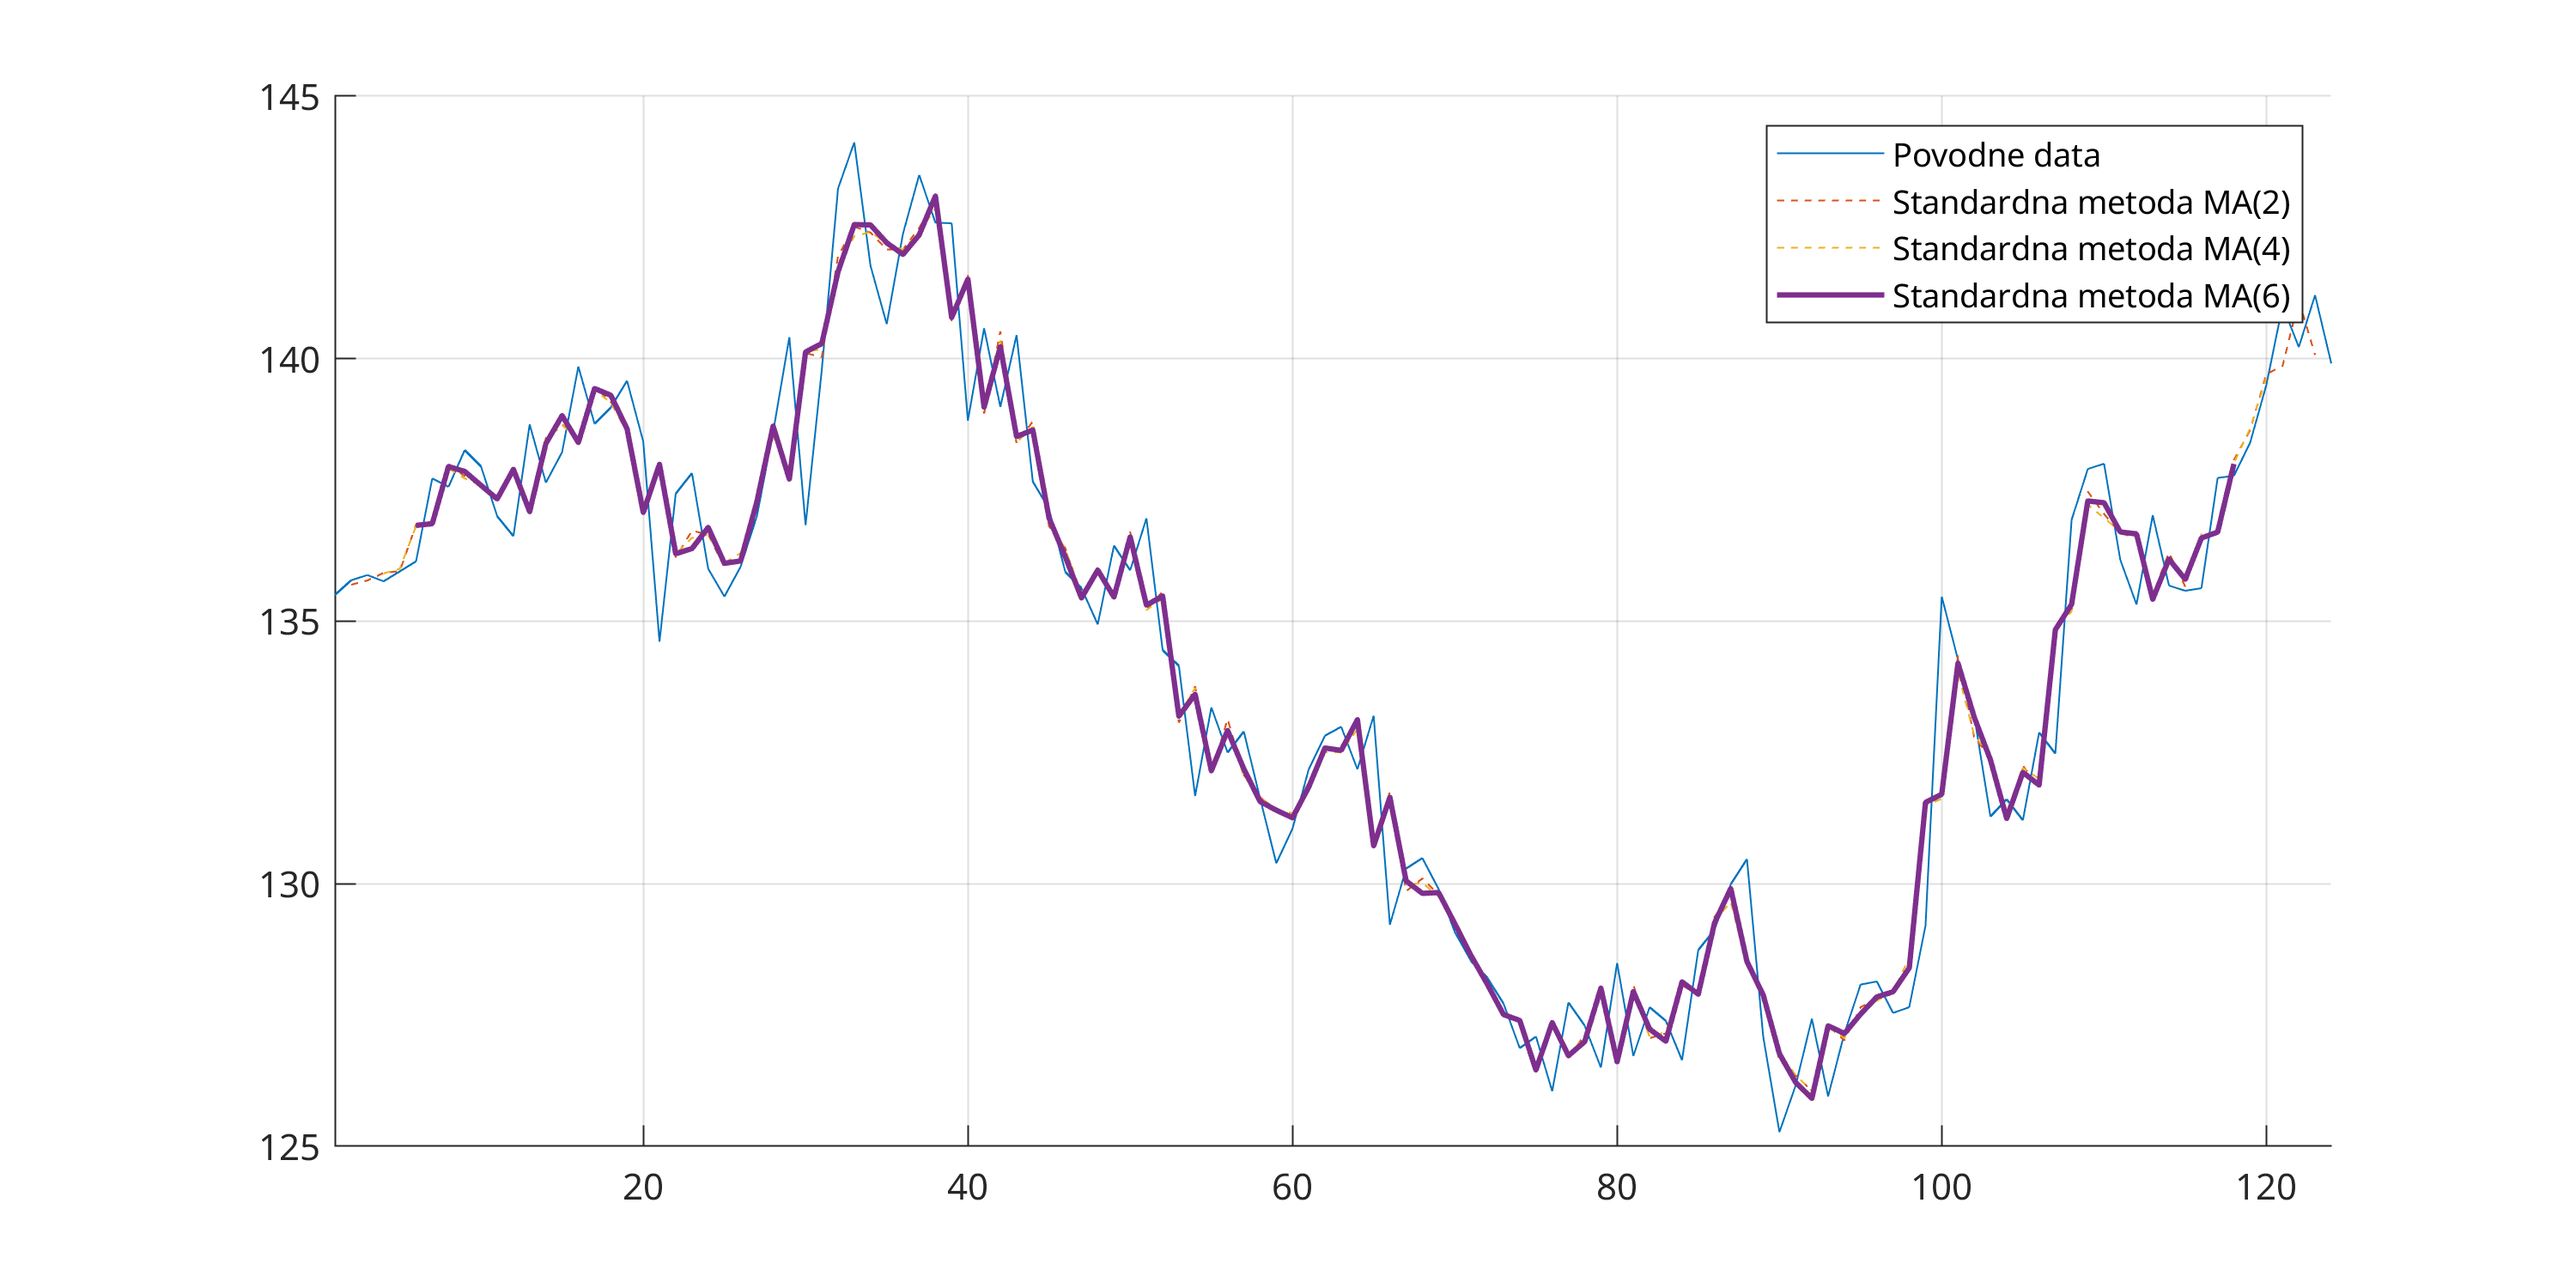
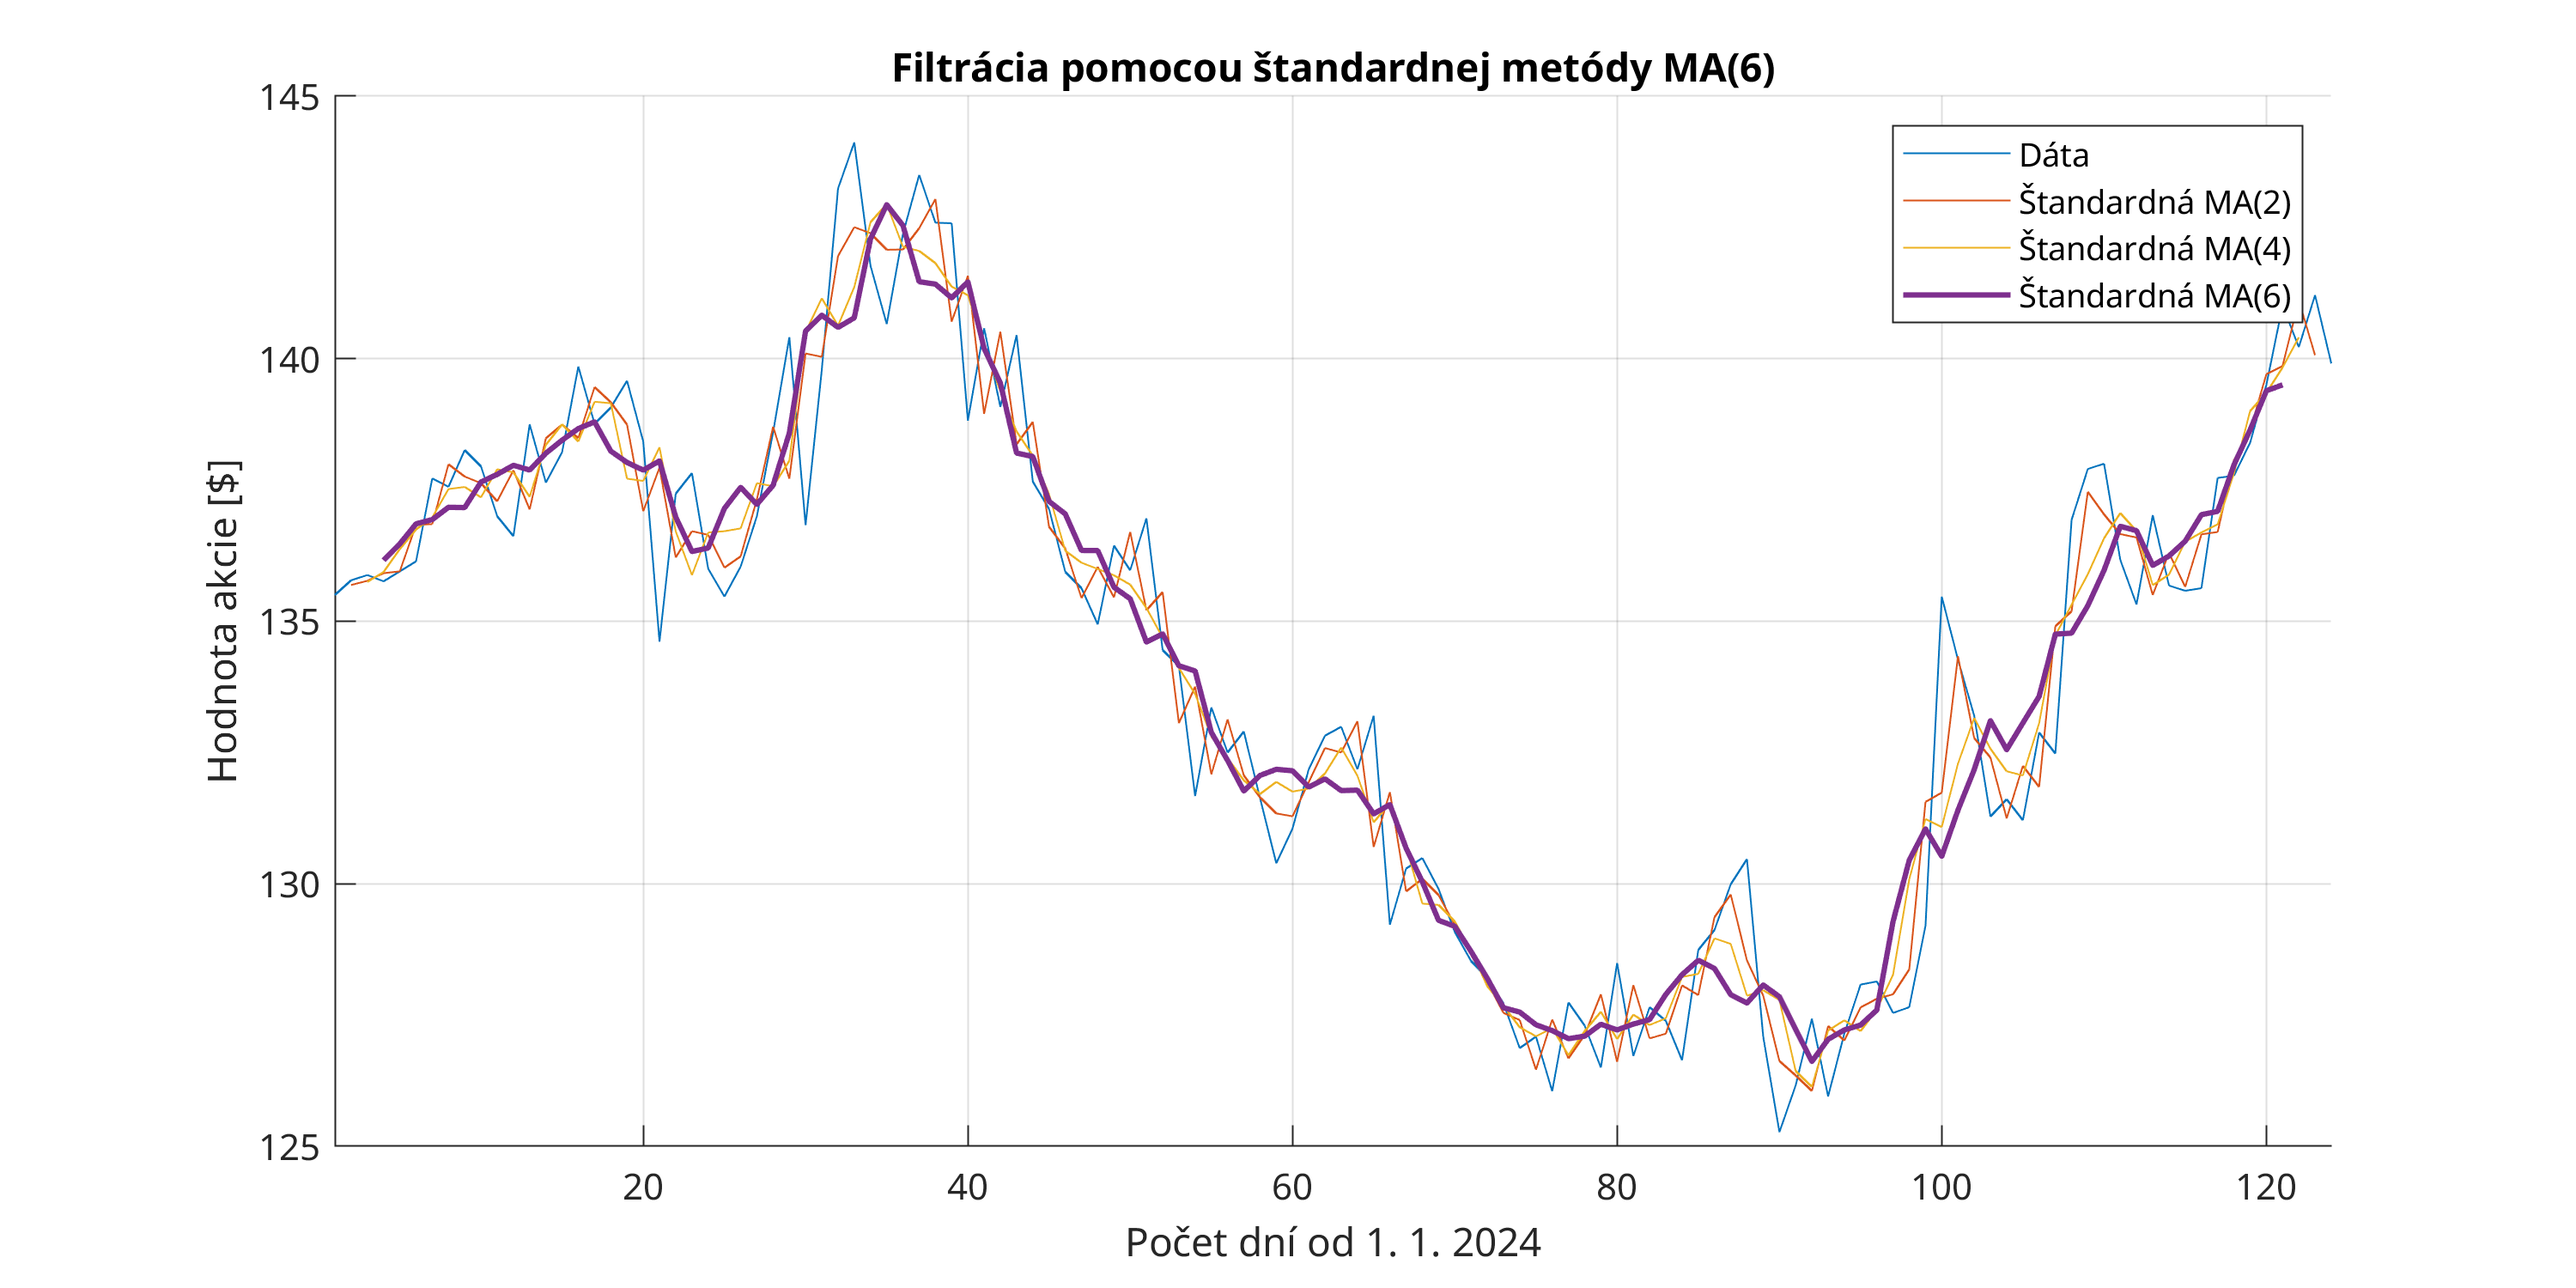
zadanie 6 skoro done chyba prezentacia, vypocet chyb, adaptabilna MA() asi nie je dobre toto bol boj, a este bude

diff --git a/data/zadanie6.m b/data/zadanie6.m
@@ -3,105 +3,146 @@ clear; close all;
 import = readmatrix("matlabized_data2.csv");
 t_full = import(:, 1)';
 f_full = import(:, 2)';
+l = length(f_full);  % dlzka dat
 
-figure; hold on; grid on; xlim([1 124])
-plot(t_full, f_full, "-")
 
-% function fp = f_ma(f, n)  % funkcia na vypocet AR(n), parametre su (data, n), vrati hodnotu fp
-%     l = length(f);
-% 
-%     for i = 1:(n/2 + 1)
-%         fprintf("---%d---\n", l)
-%         disp(n/2+i)
-%         disp(l-(n/2-i))
-%         disp(n/2-i)
-%         disp(l-(n/2+i))
-% 
-%         b{i} = f(n/2+i: l-(n/2-i));
-%         b{i*2} = f((n/2-i): l-(n/2+i));
-%     end
-% 
-%     for i = 1:n
-%         B(i) = b{i};
-%     end
-% 
-%     c = (f*B')*(B*B')^(-1);
-%     fp = c*B;
-% 
-% end
+figure; hold on; grid on; xlim([1 124]); legend; title("Dáta - hodnoty akcií spoločnosti EA"); xlabel("Počet dní od 1. 1. 2024"); ylabel("Hodnota akcie [$]");
+plot(t_full, f_full, "-", DisplayName="Dáta");
 
-% -------------------- MA(2) --------------------
-f = f_full(2: 123);
-ma_2_t = t_full(2: 123);
+% ----------------------- standardna MA ---------------------------
+% MA(2)
+for i = 1:l
+    if i == 1 || i == l
+        ma2_std(i) = NaN;
+    else
+        ma2_std(i) = (f_full(i-1) + f_full(i+1)) / 2;
+    end
+end
 
-b1 = f_full(1: 122);
-b2 = f_full(3: 124);
+
+% MA(4)
+for i = 1:l
+    if i <= 2 || i >= l-1
+        ma4_std(i) = NaN;
+    else
+        ma4_std(i) = (f_full(i-2) + f_full(i-1) + f_full(i+1) + f_full(i+2)) / 4;
+    end
+end
+
+% MA(6)
+for i = 1:l
+    if i <= 3 || i >= l-2
+        ma6_std(i) = NaN;
+    else
+        ma6_std(i) = (f_full(i-3) + f_full(i-2) + f_full(i-1) + f_full(i+1) + f_full(i+2) + f_full(i+3)) / 6;
+    end
+end
+
+figure; hold on; grid on; xlim([1 124]); title("Filtrácia pomocou štandardnej metódy MA(2)"); xlabel("Počet dní od 1. 1. 2024"); ylabel("Hodnota akcie [$]");
+plot(t_full, f_full, DisplayName="Dáta");
+plot(t_full, ma2_std, LineWidth=1.5, DisplayName="Štandardná MA(2)");
+
+figure; hold on; grid on; xlim([1 124]); legend; title("Filtrácia pomocou štandardnej metódy MA(4)"); xlabel("Počet dní od 1. 1. 2024"); ylabel("Hodnota akcie [$]");
+plot(t_full, f_full, DisplayName="Dáta");
+plot(t_full, ma2_std, DisplayName="Štandardná MA(2)");
+plot(t_full, ma4_std, LineWidth=1.5, DisplayName="Štandardná MA(4)");
+
+figure; hold on; grid on; xlim([1 124]); legend; title("Filtrácia pomocou štandardnej metódy MA(6)"); xlabel("Počet dní od 1. 1. 2024"); ylabel("Hodnota akcie [$]");
+plot(t_full, f_full, DisplayName="Dáta");
+plot(t_full, ma2_std, DisplayName="Štandardná MA(2)");
+plot(t_full, ma4_std, DisplayName="Štandardná MA(4)");
+plot(t_full, ma6_std, LineWidth=1.5, DisplayName="Štandardná MA(6)");
+
+% ----------------------- adaptabilna MA ---------------------------
+% MA(2)
+fz = f_full(2: l-1);
+b1 = f_full(3: l);
+b2 = f_full(1: l-2);
+
 B = [b1; b2];
+c = (fz * B') * (B * B')^(-1);
+ma2_adapt = c*B;
+fprintf("koeficienty ma2: %d\n", c)
 
-c = (f*B')*(B*B')^(-1);
-ma_2_std = c*B;
-
-% -------------------- MA(4) --------------------
-f = f_full(3: 122);
-ma_4_t = t_full(3: 122);
-
-b1 = f_full(1: 120);
-b2 = f_full(2: 121);
-b3 = f_full(4: 123);
-b4 = f_full(5: 124);
+% MA(4)
+fz = f_full(3: l-2);
+b1 = f_full(4: l-1);
+b2 = f_full(5: l);
+b3 = f_full(2: l-3);
+b4 = f_full(1: l-4);
 
 B = [b1; b2; b3; b4];
+c = (fz * B') * (B * B')^(-1);
+ma4_adapt = c*B;
+fprintf("koeficienty ma4: %d\n", c)
 
-c = (f*B')*(B*B')^(-1);
-ma_4_std = c*B;
+% MA(6)
+fz = f_full(4: l-3);
+b1 = f_full(5: l-2);
+b2 = f_full(6: l-1);
+b3 = f_full(7: l);
+b4 = f_full(3: l-4);
+b5 = f_full(2: l-5);
+b6 = f_full(1: l-6);
 
-% -------------------- MA(4) --------------------
-% f = f_full(3: l-2);
-% l = length(f);
-% ma_4_t = t_full(3: l-2);
-% 
-% b1 = f_full(2: l-3);
-% b2 = f_full(1: l-4);
-% b3 = f_full(4: l-1);
-% b4 = f_full(5: l);
-% B = [b1; b2; b3; b4];
-% 
-% c2 = (f*B')*(B*B')^(-1);
-% ma_4_std = c2*B;
+B = [b1; b2; b3; b4; b5; b6];
+c = (fz * B') * (B * B')^(-1);
+ma6_adapt = c*B;
+fprintf("koeficienty ma6: %d\n", c)
 
-% -------------------- MA(6) --------------------
-% f = f_full(6: l-6);
-% ma_6_t = t_full(6: l-6);
-% 
-% b1 = f_full(5: l-7);
-% b2 = f_full(4: l-8);
-% b3 = f_full(3: l-9);
-% b4 = f_full(7: l-5);
-% b5 = f_full(8: l-4);
-% b6 = f_full(9: l-3);
-% B = [b1; b2; b3; b4];
-% 
-% c = (f*B')*(B*B')^(-1);
-% ma_6_std = c*B;
+figure; hold on; grid on; xlim([1 124]); legend; title("Filtrácia pomocou adaptabilnej metódy MA(2)"); xlabel("Počet dní od 1. 1. 2024"); ylabel("Hodnota akcie [$]");
+plot(t_full, f_full, DisplayName="Dáta");
+plot(t_full(2:l-1), ma2_adapt, LineWidth=1.5, DisplayName="Adaptabilná MA(2)");
 
+figure; hold on; grid on; xlim([1 124]); legend; title("Filtrácia pomocou adaptabilnej metódy MA(4)"); xlabel("Počet dní od 1. 1. 2024"); ylabel("Hodnota akcie [$]");
+plot(t_full, f_full, DisplayName="Dáta");
+plot(t_full(2:l-1), ma2_adapt, DisplayName="Adaptabilná MA(2)");
+plot(t_full(3:l-2), ma4_adapt, LineWidth=1.5, DisplayName="Adaptabilná MA(4)");
 
-figure; hold on; grid on; xlim([1, 124]); legend;
-plot(t_full, f_full, '-', DisplayName="Povodne data");
-plot(ma_2_t, ma_2_std, '-', LineWidth=1.5,DisplayName="Standardna metoda MA(2)");
+figure; hold on; grid on; xlim([1 124]); legend; title("Filtrácia pomocou adaptabilnej metódy MA(6)"); xlabel("Počet dní od 1. 1. 2024"); ylabel("Hodnota akcie [$]");
+plot(t_full, f_full, DisplayName="Dáta");
+plot(t_full(2:l-1), ma2_adapt, DisplayName="Adaptabilná MA(2)");
+plot(t_full(3:l-2), ma4_adapt, DisplayName="Adaptabilná MA(4)");
+plot(t_full(4:l-3), ma6_adapt, LineWidth=1.5, DisplayName="Adaptabilná MA(6)");
 
-figure; hold on; grid on; xlim([1, 124]); legend;
-plot(t_full, f_full, '-', DisplayName="Povodne data");
-plot(ma_2_t, ma_2_std,'--', DisplayName="Standardna metoda MA(2)");
-plot(ma_4_t, ma_4_std,'-', LineWidth=1.5, DisplayName="Standardna metoda MA(4)");
+% ---------- MA spolocne ---------- 
 
-% figure; hold on; grid on; xlim([1, 124]); legend;
-% plot(t_full, f_full, '-', DisplayName="Povodne data");
-% plot(ma_2_t, ma_2_std,'--', DisplayName="Standardna metoda MA(2)");
-% plot(ma_4_t, ma_4_std,'--', DisplayName="Standardna metoda MA(4)");
-% plot(ma_6_t, ma_6_std,'-', LineWidth=1.5, DisplayName="Standardna metoda MA(6)");
+figure; hold on; grid on; xlim([1 124]); legend; title("Porovnanie štandardnej a adaptabilnej metódy MA(2)"); xlabel("Počet dní od 1. 1. 2024"); ylabel("Hodnota akcie [$]");
+plot(t_full, f_full)
+plot(t_full, ma2_std, LineWidth=1.5, DisplayName="Štandardná MA(2)");
+plot(t_full(2:l-1), ma2_adapt, LineWidth=1.5, DisplayName="Adaptabilná MA(2)");
 
+figure; hold on; grid on; xlim([1 124]); legend; title("Porovnanie štandardnej a adaptabilnej metódy MA(4)"); xlabel("Počet dní od 1. 1. 2024"); ylabel("Hodnota akcie [$]");
+plot(t_full, f_full)
+plot(t_full, ma4_std, LineWidth=1.5, DisplayName="Štandardná MA(4)");
+plot(t_full(3:l-2), ma4_adapt, LineWidth=1.5, DisplayName="Adaptabilná MA(4)");
 
+figure; hold on; grid on; xlim([1 124]); legend; title("Porovnanie štandardnej a adaptabilnej metódy MA(6)"); xlabel("Počet dní od 1. 1. 2024"); ylabel("Hodnota akcie [$]");
+plot(t_full, f_full)
+plot(t_full, ma6_std, LineWidth=1.5, DisplayName="Štandardná MA(6)");
+plot(t_full(4:l-3), ma6_adapt, LineWidth=1.5, DisplayName="Adaptabilná MA(6)");
 
+% ----------------------- AR(1) ---------------------------
+okno = [5 10 15 20];
+c = {};
+format short;
+
+index_listu = 1;
+for n = okno
+    fz = f_full(1: end-n+1);
+    b = f_full(n: end);
+    c{index_listu} = (fz * b') / (b * b');
+
+    ar1{index_listu} = c{index_listu} * b;
+
+    index_listu = index_listu + 1;
+end	
+
+for n = 1:index_listu-1
+    figure; hold on; grid on; xlim([1 124]); legend; title(sprintf("Kĺzavý autoregresný koeficient AR(1) pre veľkosť okna %d", okno(n))); xlabel("Počet dní od 1. 1. 2024"); ylabel("Hodnota akcie [$]");
+    plot(t_full, f_full, DisplayName="Dáta");
+    plot(t_full(okno(n): end), ar1{n}, LineWidth=1.5, DisplayName=sprintf("Dáta * koeficient %.4f", c{n}));
+end
 
 % ----------------------- exportovanie obrazkov ---------------------------
 resolution = 300;
@@ -112,18 +153,18 @@ figHandles = findall(groot, 'Type', 'figure');  % list of all open figure handle
 figHandles = flip(figHandles);
 
 % Loop through each figure and save it as a PNG
-for i = 1:length(figHandles)
-    fig = figHandles(i);
+for n = 1:length(figHandles)
+    fig = figHandles(n);
     
     % Set the figure's PaperPosition (this controls the output size)
     fig.PaperUnits = 'inches';
     fig.PaperPosition = [0 0 width height]; % [left bottom width height]
     
     % Create the filename with figure number
-    filename = sprintf('zadanie6obrazky/figure_%d.png', i); 
+    filename = sprintf('zadanie6obrazky/figure_%d.png', n); 
     
     % Save the figure as PNG with specified resolution
     print(fig, filename, '-dpng', ['-r', num2str(resolution)]);
 end
 
-close all
+close all;
